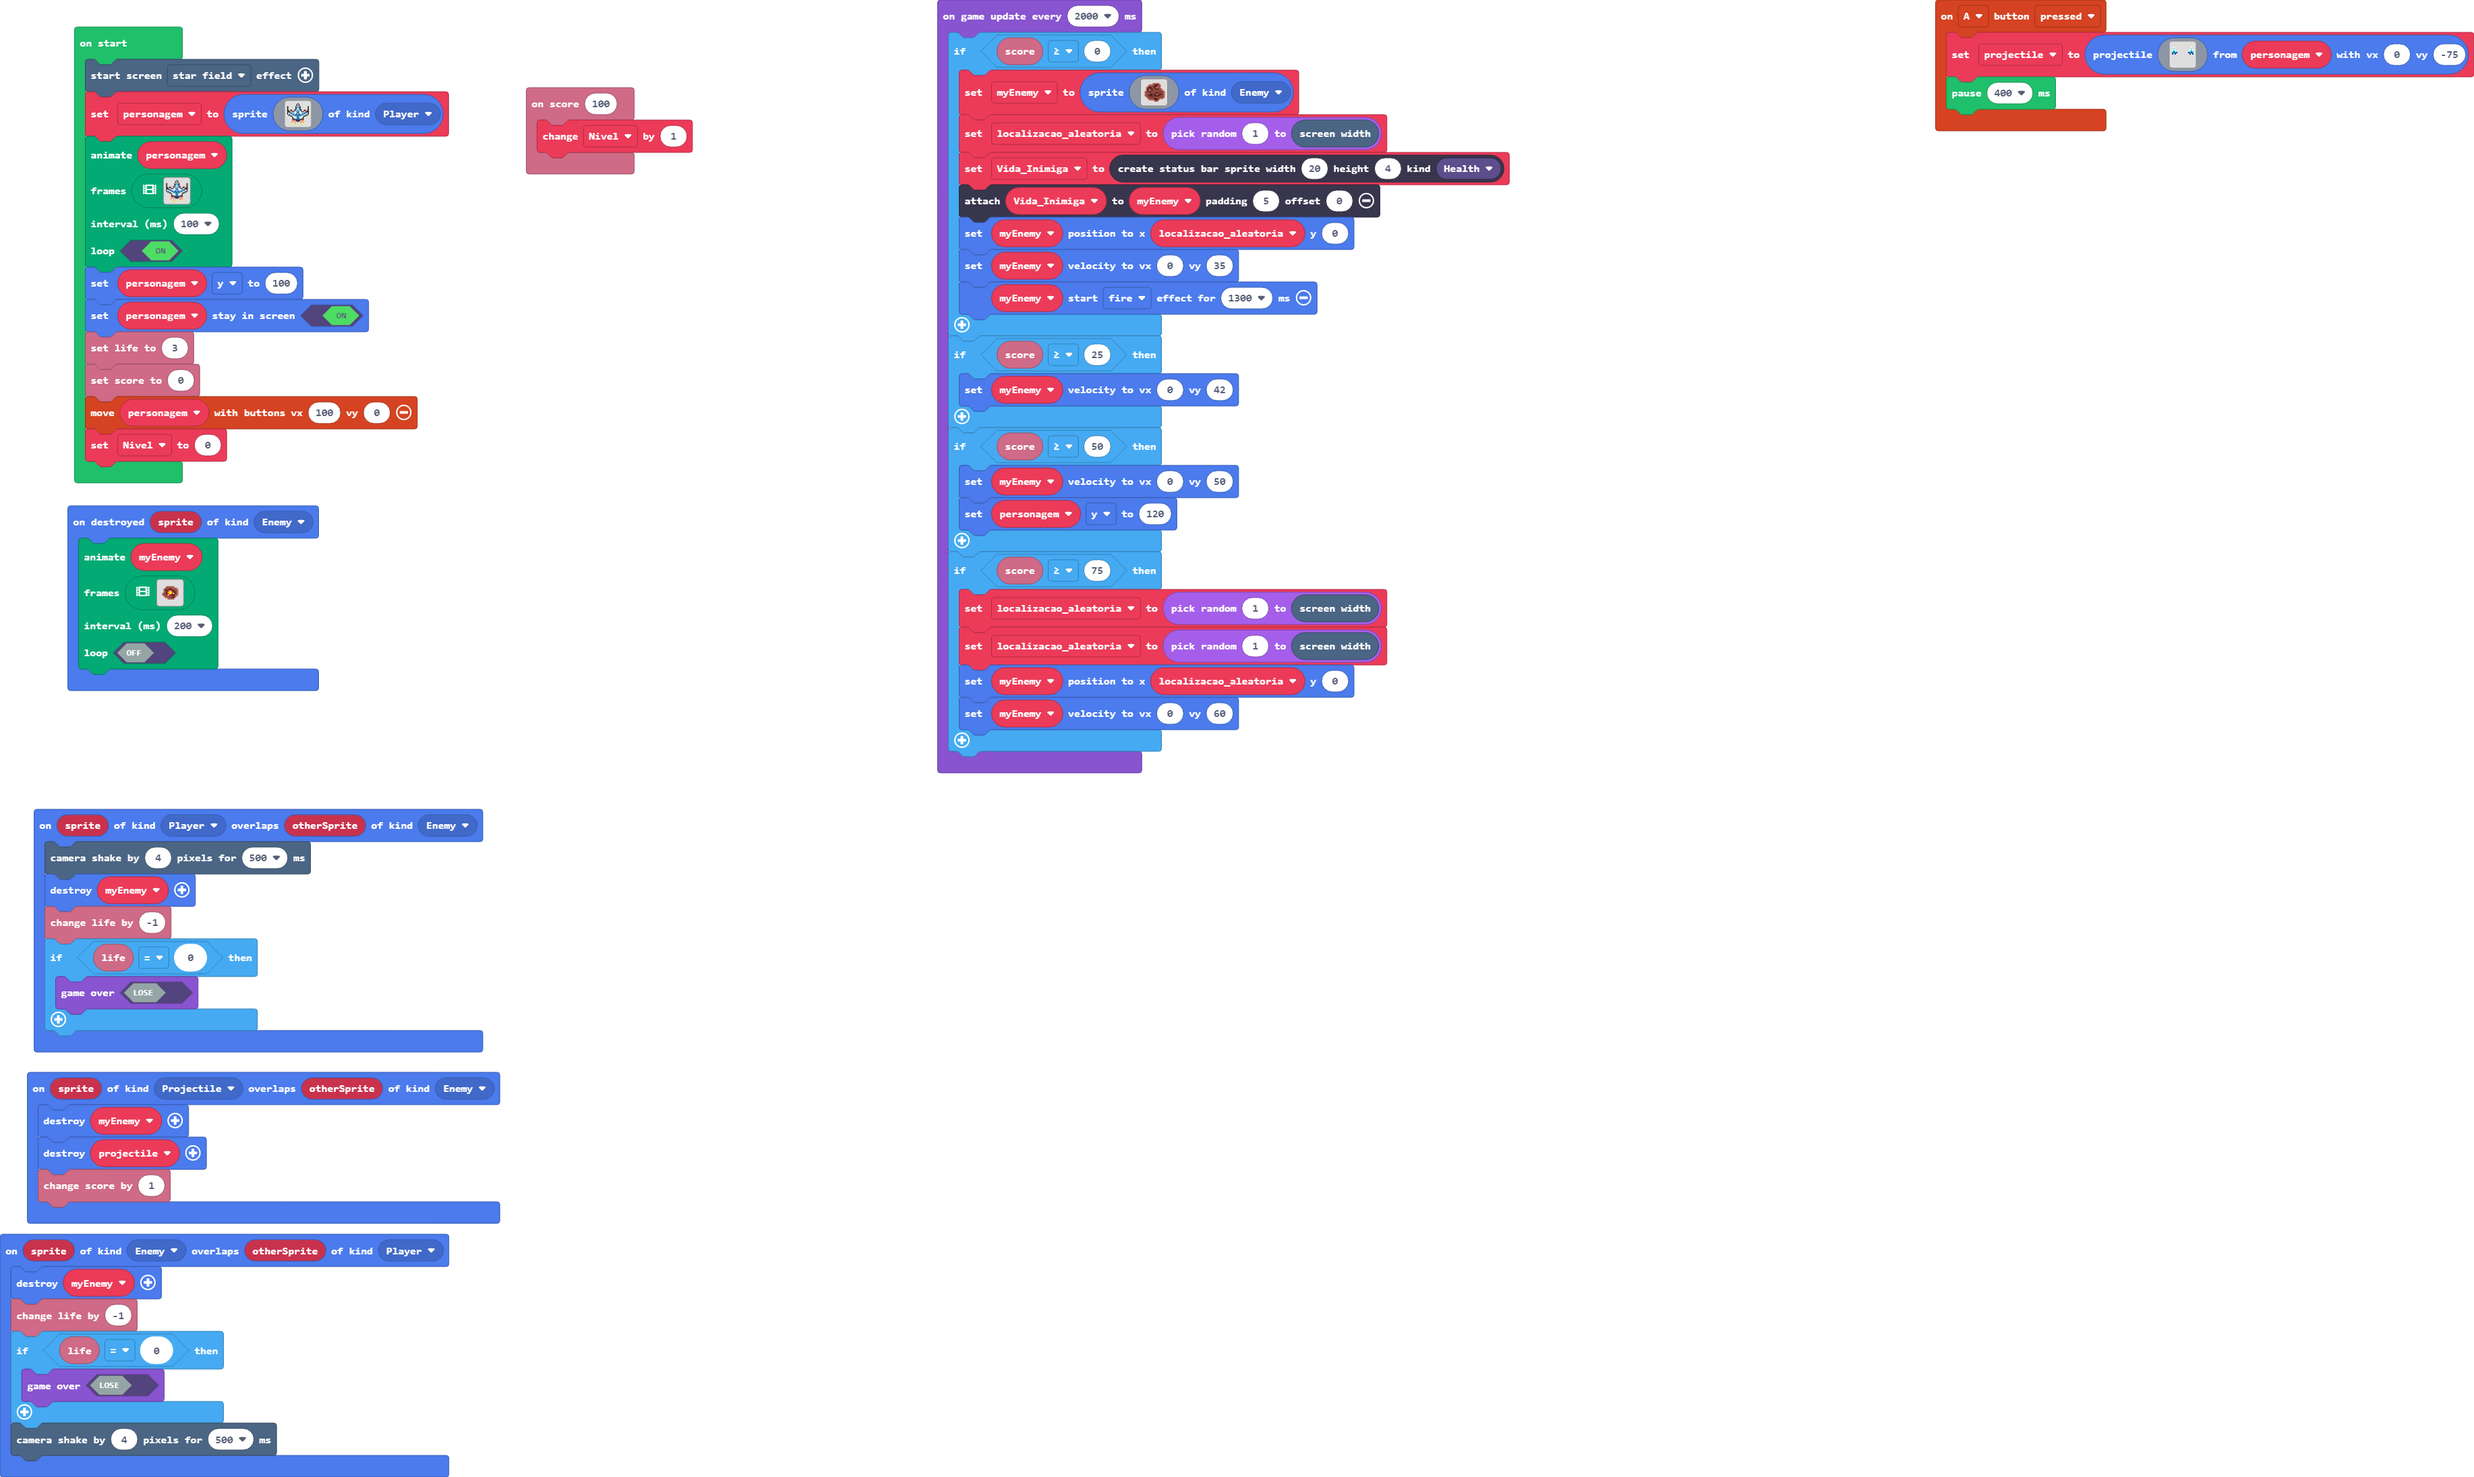
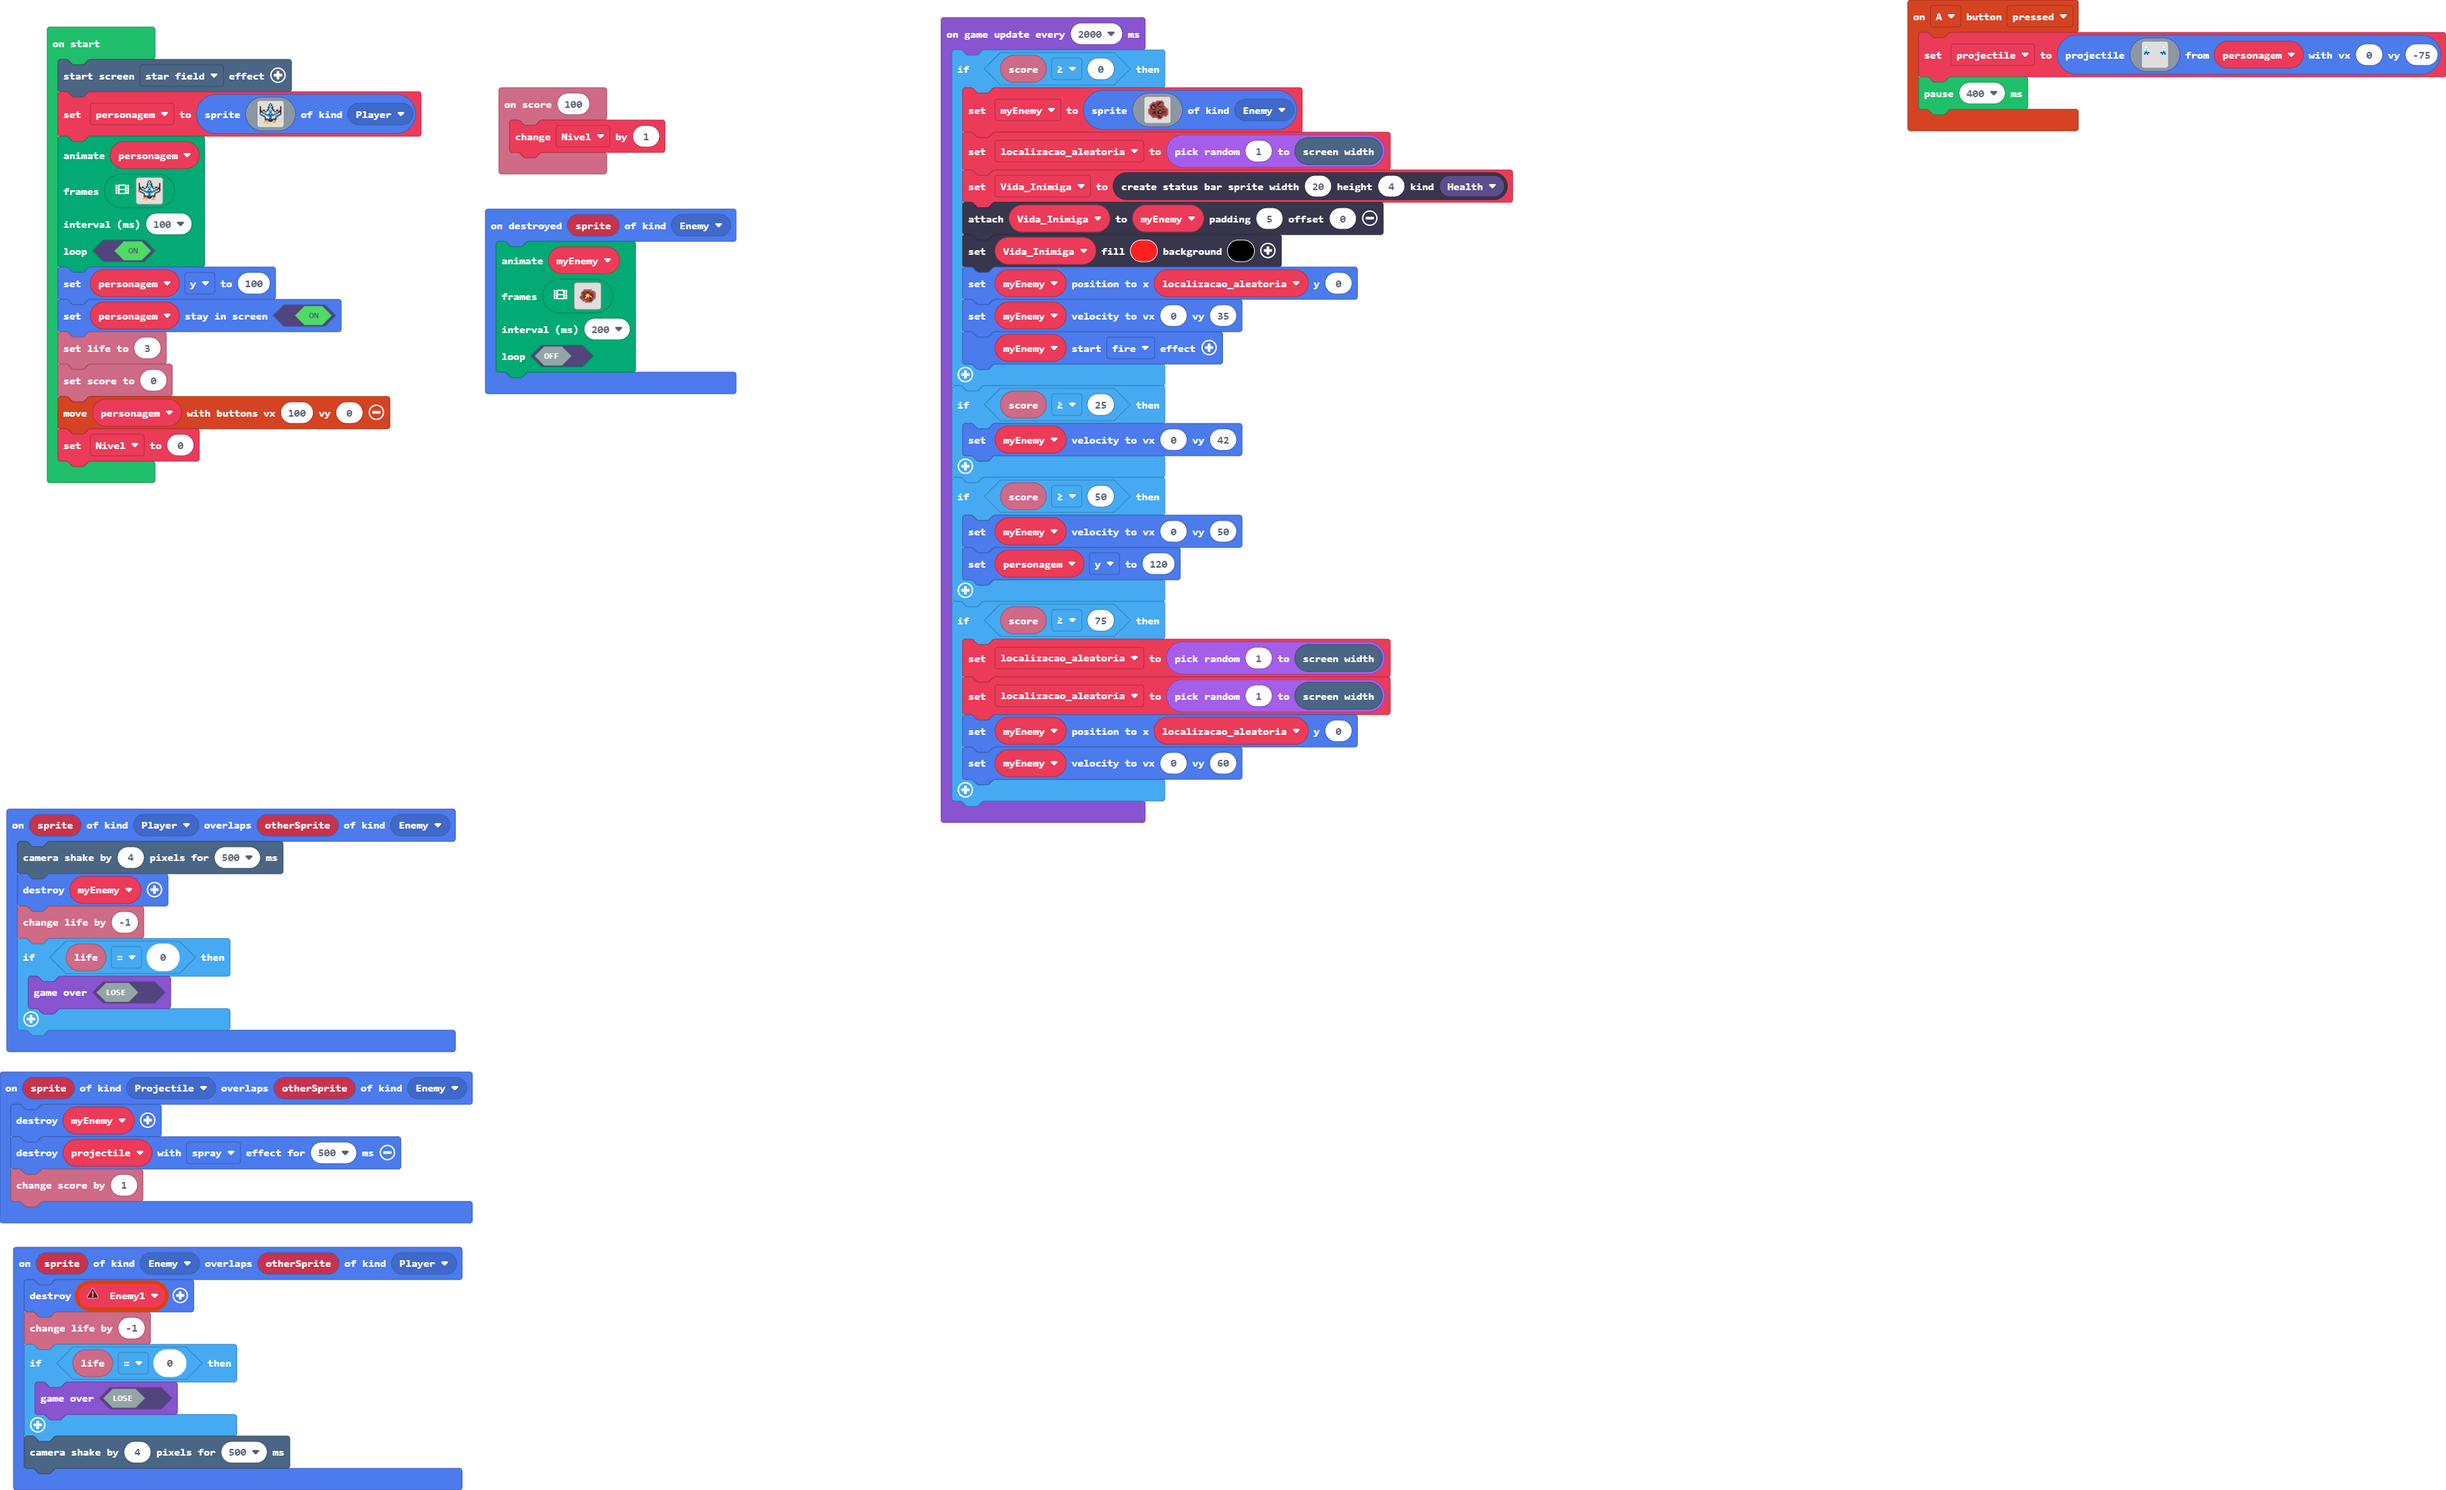
Update pxt.json, main.blocks, main.ts

diff --git a/main.ts b/main.ts
@@ -9,7 +9,8 @@ info.onScore(100, function () {
     Nivel += 1
 })
 sprites.onOverlap(SpriteKind.Enemy, SpriteKind.Player, function (sprite, otherSprite) {
-    sprites.destroy(myEnemy)
+    let Enemy1: Sprite = null
+    sprites.destroy(Enemy1)
     info.changeLifeBy(-1)
     if (info.life() == 0) {
         game.gameOver(false)
@@ -26,7 +27,7 @@ sprites.onDestroyed(SpriteKind.Enemy, function (sprite) {
 })
 sprites.onOverlap(SpriteKind.Projectile, SpriteKind.Enemy, function (sprite, otherSprite) {
     sprites.destroy(myEnemy)
-    sprites.destroy(projectile)
+    sprites.destroy(projectile, effects.spray, 500)
     info.changeScoreBy(1)
 })
 sprites.onOverlap(SpriteKind.Player, SpriteKind.Enemy, function (sprite, otherSprite) {
@@ -62,9 +63,10 @@ game.onUpdateInterval(2000, function () {
         localizacao_aleatoria = randint(1, scene.screenWidth())
         Vida_Inimiga = statusbars.create(20, 4, StatusBarKind.Health)
         Vida_Inimiga.attachToSprite(myEnemy, 5, 0)
+        Vida_Inimiga.setColor(2, 15)
         myEnemy.setPosition(localizacao_aleatoria, 0)
         myEnemy.setVelocity(0, 35)
-        myEnemy.startEffect(effects.fire, 1300)
+        myEnemy.startEffect(effects.fire)
     }
     if (info.score() >= 25) {
         myEnemy.setVelocity(0, 42)
